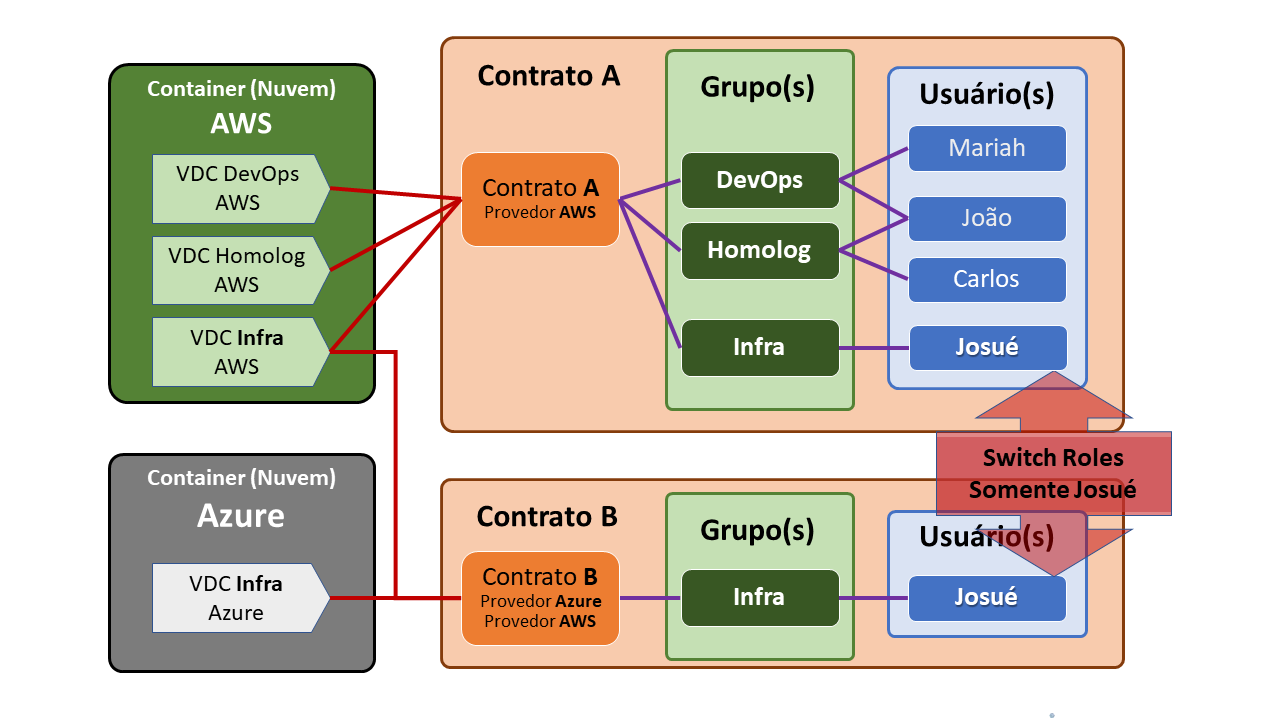
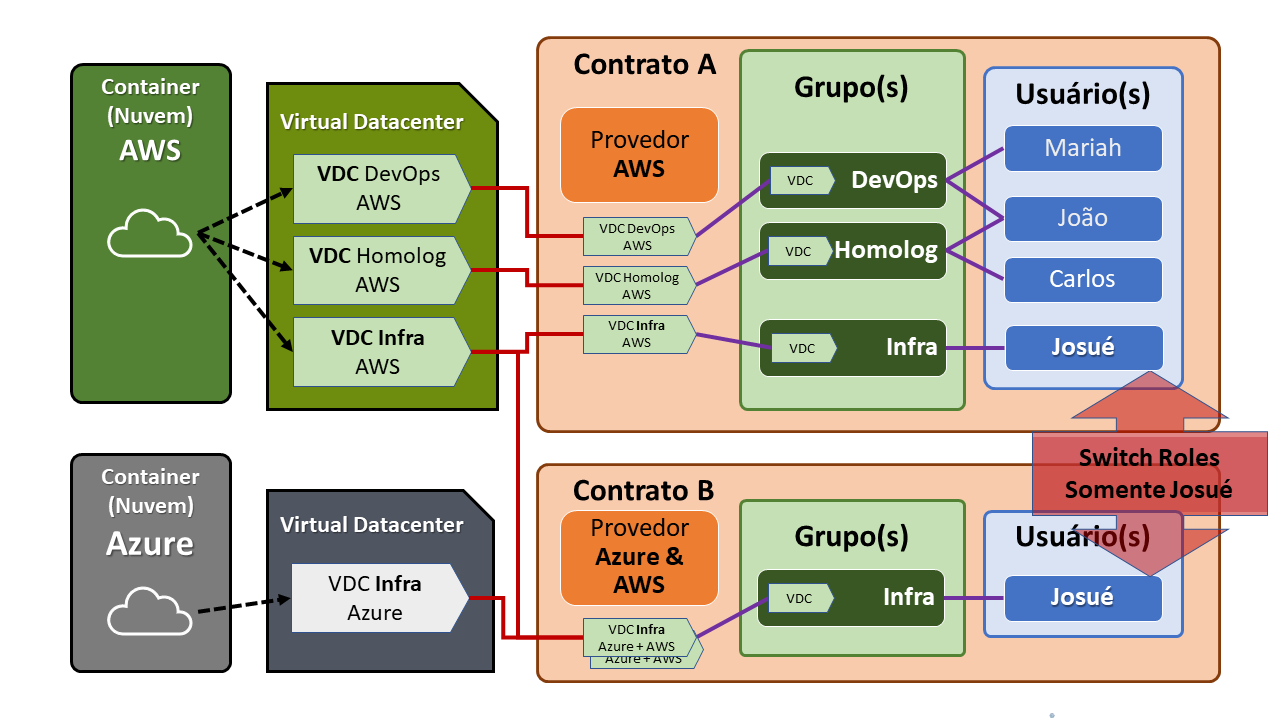
Novas capturas de telas, e finalizado até o menu Virtual Datacenter

diff --git a/Manuais/usr-manual.rst b/Manuais/usr-manual.rst
@@ -245,6 +245,96 @@ A opção Administração apresenta campos que variam de acordo com o perfil do 
   |atencao| *O Perfil Administrador não será coberto neste documento. Entre em contato com seu ponto focal na Ustore para obter o documento específico: Manual do Administrador da Plataforma uCloud.
   Por segurança, melhores práticas e por padrão, existe apenas um (01) usuário provisionado com este tipo de perfil*.
 	
+Switch Roles
+------------
+
+Quando um usuário de infraestrutura multi-nuvem precisa alternar entre diversos consoles de provedores de nuvem, o processo de login com diversas credenciais em diversos consoles gera um gasto de tempo e pode incorrer em erros de digitação de logins e senhas.
+A plataforma do uCloud por ser um ambiente multi-nuvem permite que o usuário possa interagir com os recursos computacionais existentes em diversos provedores de nuvem diferentes de forma simultânea.
+Ao iniciar uma sessão na Plataforma uCloud (login) o usuário obtém um conjunto específico de permissões para executar ações que pertencem ao contrato ao qual o usuário está vinculado. O(s) usuário(s) pertencem a um Grupo, e os Grupos pertencem a um contrato. Portanto, as credenciais de acesso do usuário estão vinculadas a um, ou mais, contratos, Este contrato pode estar provisionado para ter acesso a um (ou mais) credenciais de acesso aos ambientes dos provedores de nuvem pública e/ou privada.
+Veja a figura abaixo, que demonstra a vinculação do usuário a um, ou mais, contratos:
+
+.. figure:: /figuras/ucloud_arquitetura_conceitual001.png
+   :align: center
+
+----
+
+O primeiro aspecto da figura acima é que podemos verificar que este cliente possui dois contratos diferentes. O **Contrato A** está associado a somente um provedor de nuvem pública (ex: **AWS**) e o **Contrato B** está associado a dois provedores de nuvem pública diferentes (ex: **AWS** e **Azure**).
+
+Switch Roles - Cenário Exemplo
+~~~~~~~~~~~~~~~~~~~~~~~~~~~~~~
+
+Na figura acima podemos visualizar que os usuários Mariah, João e Carlos pertencem a somente um único contrato e este contrato possui somente um único provedor (ex: AWS).
+O usuário **Josué** está associado a dois contratos diferentes e para evitar que este usuário tenha de alternar entre sessões de registro diferentes (encerrar uma sessão e iniciar outra com outra credencial), a Ustore desenvolveu e implementou a funcionalidade de **Switch Roles**.
+Desta forma **apenas** o usuário Josué, através da funcionalidade de Switch Roles pode alternar entre os contratos aos quais ele está vinculado, simplesmente alternando entre os contratos aos quais ele está vinculado.
+O usuário Josué é responsável pela total gestão da infraestrutura do ambiente Azure, porém, no ambiente da AWS, ele pode somente visualizar os recursos computacionais, pois não possui a permissão de operar estes recursos computacionais (ex: Read Only).
+Através da funcionalidade Switch Roles será possível aplicar esta mudança de papel sem a necessidade de troca do usuário, isso será feito com um através da seleção de contrato e/ou container que este usuário deseja acessar.
+Ainda para ilustrar este exemplo, com a nova implementação de Perfil de Permissionamento, seria possível criar diferentes conjuntos de permissões e vincular cada conjunto (Perfil de Permissionamento) a cada usuário e provisionar um nível de granularidade bem específico.
+
+Cenário exemplo (AWS):
+~~~~~~~~~~~~~~~~~~~~~~
+
++-------------------------------+-----------+--------------------+------------+
+| Perfil de Permissionamento    | Usuário   | Virtual Datacenter | Permissão  |
++===============================+===========+====================+============+
+| AWS DevOps Full               | Maria     | DevOps             | Full       |
++-------------------------------+-----------+--------------------+------------+
+|| AWS DevOps *Read Only*       || João     || DevOps            || Read Only |
+|| AWS Homolog Full             ||          || Homolog           || Full      |
++-------------------------------+-----------+--------------------+------------+
+| AWS Homolog Full              | Carlos    |  Homolog           | Full       |
++-------------------------------+-----------+--------------------+------------+
+| AWS Infra Full                | Josué     | Infra              | Full       |
++-------------------------------+-----------+--------------------+------------+
+
+Atualmente é possível provisionar quatro (04) Perfis de Permissionamento diferentes e vincular cada perfil a um usuário específico. No exemplo da tabela acima, é possível visualizar que o usuário João possui dois conjuntos de permissões diferentes que são específicas para cada conjunto de infraestruturas virtuais (Virtual Datacenter - VDC) que este usuário pode acessar. Vemos que o usuário João tem acesso irrestrito ao VDC Homolog, e somente visualização ao VDC DevOps.
+Vejamos o exemplo do usuário Josué que possui características diferentes para cada contrato.
+
+Cenário Exemplo (AZURE e AWS):
+~~~~~~~~~~~~~~~~~~~~~~~~~~~~~~
+
++-------------------------------+-----------+--------------------+-------------+
+| Perfil de Permissionamento    | Usuário   | Virtual Datacenter | Permissão   |
++===============================+===========+====================+=============+
+|| Azure Infra RO               || Josué    || Infra Azure       || Read Only  |
+|| AWS Infra Full               ||          || Infra AWS         || Full       |
++-------------------------------+-----------+--------------------+-------------+
+
+Este é um exemplo da simplicidade e da transparência que advém da ampliação e alteração do novo Perfil de Permissionamento, que permite vincular conjuntos de permissões diferentes ao mesmo usuário, que estão vinculados a contratos diferentes. Podemos verificar que o usuário *Josué* possui acesso irrestrito (*full*) para a infraestrutura do VDC Infra AWS (Contrato AWS) e acesso apenas leitura (*read only*) para o VDC Infra AZURE (Contrato Azure).
+
+Anteriormente o usuário teria de ter duas credenciais diferentes (ex: `josue.aws/senhaABC` e `josue.azure/senha123`) e efetuar diversas sessões de login diferentes na Plataforma uCloud.
+
+Com a combinação do novo Perfil de Permissionamento em conjunto da funcionalidade Switch Roles será possível aplicar esta mudança de tipos de permissões sem a necessidade de troca do usuário, isso será feito com um através da seleção de contrato e/ou container que este usuário deseja acessar.
+
+Switch Roles - Utilizando
+~~~~~~~~~~~~~~~~~~~~~~~~~
+
+A funcionalidade de Switch Roles fica posicionada no canto superior direito da área de tela da Plataforma do uCloud (ao lado do nome do usuário) - veja a tela abaixo:
+
+.. figure:: /figuras/ucloud_dashboard_switch_roles001.png
+   :align: center
+
+----
+
+Basta o usuário clicar com o cursor do mouse sobre o nome do contrato e a Plataforma do uCloud apresenta uma janela pop-up que apresenta ao usuário a lista de contratos aos quais este está vinculado para que ele selecione o contrato desejado.
+
+.. figure:: /figuras/ucloud_dashboard_switch_roles002.png
+   :scale: 60 %
+   :align: center
+
+----
+
+Ao selecionar o contrato desejado a Plataforma do uCloud irá atualizar a informação apresentada no canto superior direito da sessão do usuário.
+Importante ressaltar que essa janela pop-up lista somente os contratos aos quais o usuário está vinculado. Caso existam outros contratos provisionados na Plataforma uCloud, o usuário não terá acesso a nenhum destes outros contratos.
+
+.. figure:: /figuras/ucloud_dashboard_switch_roles003.png
+   :align: center
+
+----
+
+A funcionalidade Switch Roles possibilita a um usuário alternar tanto seu nível de acesso bem como obter acesso a diferentes contratos com diferentes regras de permissões para cada contrato sem ter de encerrar a sua sessão na Plataforma uCloud.
+Com esta nova funcionalidade um único usuário poderá acessar, por exemplo, a nuvem Azure e a nuvem AWS com a possibilidade de ter responsabilidades, permissões e níveis de acesso completamente diferentes e específicos para cada um dos ambientes dos provedores de nuvem pública.
+A personalização das permissões de atividades que o usuário poderá possuir será esclarecido no tópico Perfil de Permissionamento, neste documento.
+
 Menu Administração / Usuários
 -----------------------------
 
@@ -3385,8 +3475,67 @@ Importante ressaltar que toda alteração, seja de inclusão ou de remoção de 
 Criando um Virtual Datacenter
 -----------------------------
 
+Acessar o menu Virtual Datacenters, basta o usuário clicar sobre o botão “Criar Virtual Datacenter”, conforme a figura abaixo:
+
+.. image:: /figuras/ucloud_virtualdatacenter001.png
+   :alt: Virtual Datacenter - Exemplo
+   :scale: 60 %
+   :align: center
+
 ----
 
+O processo inicia quando a Plataforma do uCloud apresenta a primeira tela “Criar Virtual Datacenter”:
+
+.. image:: /figuras/ucloud_virtualdatacenter008a.png
+   :alt: Virtual Datacenter - Exemplo
+   :scale: 60 %
+   :align: center
+
+----
+
+* **Container**: Este campo é obrigatório do tipo “dropdown”, quando o usuário clicar com o cursor do mouse a Plataforma do uCloud apresenta uma lista com todos os provedores de serviço de nuvem configurados no ambiente da Plataforma do uCloud, neste momento, basta o usuário selecionar o provedor desejado. *Importante ressaltar que o termo ‘container’ significa nome do provedor de serviço computacional de nuvem (público e/ou privado) previamente configurado no ambiente do uCloud. Esta seleção determina como a Plataforma do uCloud apresenta as próximas telas*.
+
+  Assim que o usuário selecionar o provedor de serviço de nuvem (container) a Plataforma do uCloud apresenta a tela abaixo:
+
+.. image:: /figuras/ucloud_virtualdatacenter008b.png
+   :alt: Virtual Datacenter - Exemplo
+   :scale: 60 %
+   :align: center
+
+----
+
+* **Nome**: Este campo é obrigatório, o usuário deve informar o nome (no mínimo 3 caracteres, no máximo 15 caracteres) com o qual deseja identificar este Virtual Datacenter. Sugestão: utilizar somente os caracteres ASCII padrão, não usar espaços em branco ou caracteres acentuados (*ASCII Extendido)*.
+
+* **Ícone para Ampliar a Seleção** |icone_amplia_vdc|: Para que a Plataforma do uCloud possa apresentar a lista de recursos computacionais respectivos de cada seção, o usuário deve clicar com o cursor do mouse sobre o ícone de cada seção desejada.
+  Quando o usuário amplia a seção desejada, os procedimentos para incluir (ou excluir) são os mesmos para qualquer uma das seções abaixo, portanto os esclarecimentos a seguir usam como exemplo a seção de Regiões, os processos são idênticos.
+
+* **Coluna Acionável**: Cada linha está representada por um caixa selecionável (tipo “check box”). Quando o usuário seleciona uma linha, ou várias, a Plataforma do uCloud apresenta o ícone com status marcado, e um número ao lado do nome da seção com a quantidade selecionada de linhas referente a seção. Veja o exemplo abaixo:
+
+.. image:: /figuras/ucloud_virtualdatacenter006.png
+   :alt: Virtual Datacenter - Exemplo
+   :scale: 60 %
+   :align: center
+
+----
+
+  * Se o usuário deseja selecionar todas as linhas da seção de uma única vez, este deve clicar com o cursor do mouse no ícone acionável que fica localizado na linha do cabeçalho da seção. Desta forma, a Plataforma do uCloud preenche todos os ícones de forma imediata e atualiza o número de linhas selecionadas no título da seção, de acordo com a quantidade de opções da seção. Veja o exemplo abaixo:
+
+.. image:: /figuras/ucloud_virtualdatacenter007.png
+   :alt: Virtual Datacenter - Exemplo
+   :scale: 60 %
+   :align: center
+
+----
+
+O usuário deve repetir estes procedimentos para cada uma das seções abaixo, até que a relação de recursos computacionais de nuvem de cada seção abaixo, fique na quantidade e características ideais para o seu uso na Plataforma do uCloud.
+
+* **Regiões**: Esta seção apresenta todas as Regiões globais disponíveis no provedor de serviço de nuvem, após a seleção somente as regiões previamente definidas permanecem disponíveis aos usuários, quando estes selecionarem o VDC.
+* **Templates**: Esta seção apresenta todos os Templates disponíveis no provedor de serviço de nuvem, após a seleção somente os templates previamente definidos permanecem disponíveis aos usuários, quando estes selecionarem o VDC.
+* **Redes**: Esta seção apresenta todas as Redes existentes, bem como as que foram provisionadas, no provedor de serviço de nuvem. Após a seleção somente as Redes previamente definidas permanecem disponíveis aos usuários, quando estes selecionarem o VDC.
+* **Storage**: Esta seção apresenta todos os tipos de Storages disponíveis no provedor de serviço de nuvem, após a seleção somente os storages previamente definidos permanecem disponíveis aos usuários, quando estes selecionarem o VDC.
+* **Flavors**: Esta seção apresenta todos os Flavors disponíveis no provedor de serviço de nuvem, após a seleção somente os flavors previamente definidos permanecem disponíveis aos usuários, quando estes selecionarem o VDC.
+
+Importante ressaltar que toda alteração, seja de inclusão ou de remoção, de recursos computacionais reflete de forma imediata na Plataforma do uCloud. Caso um usuário não seja capaz de visualizar um recurso computacional de nuvem (por exemplo: um template ou um flavor), ao proceder a adição do recurso computacional, este recurso será imediatamente visualizado por todos os outros usuários.
 
 Menu Financeiro
 ===============
